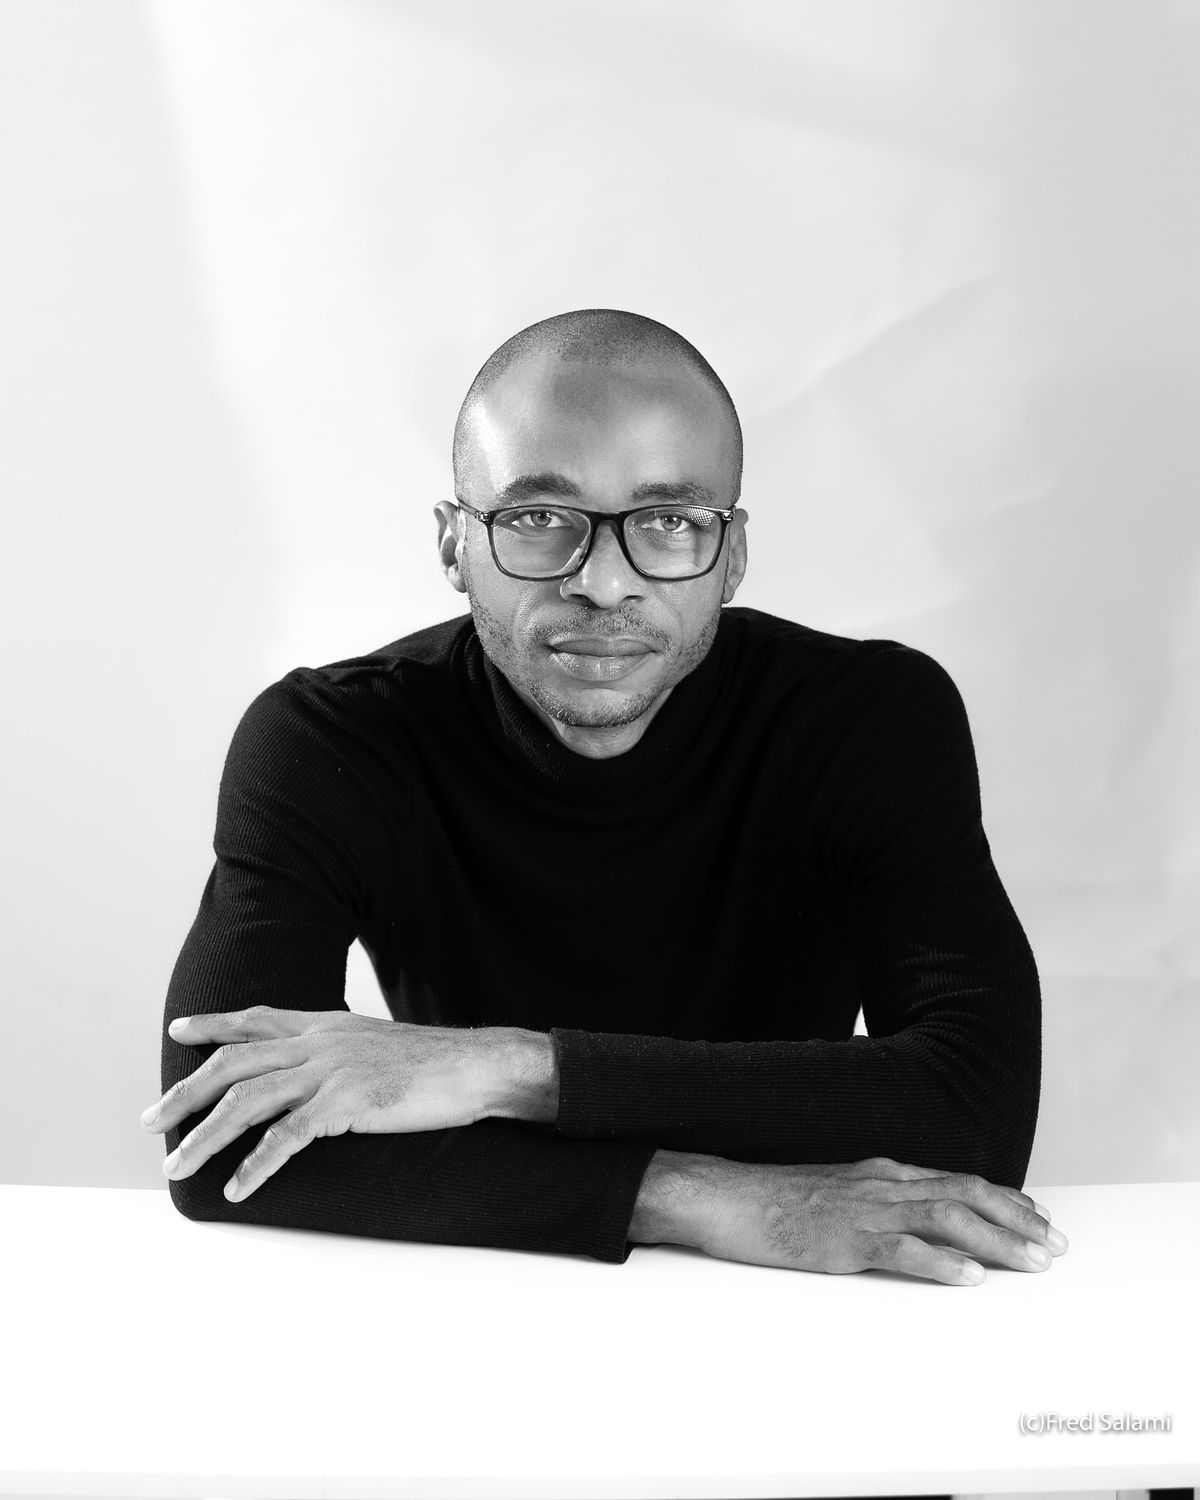
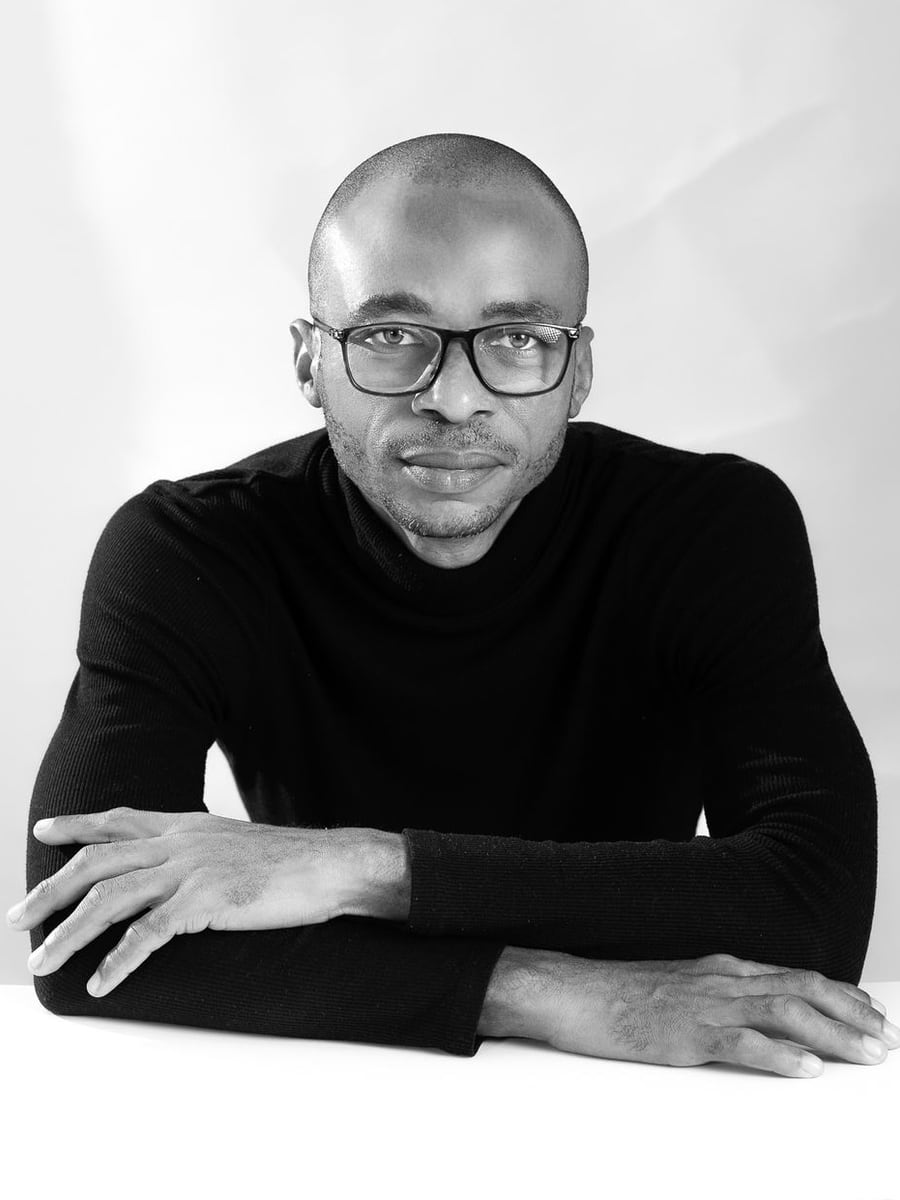
Mobile-Feinschliff: Marcus-Akkordeon, Story, Team-Grid, Natali-Portrait
Nur Mobile (<768px), Desktop unverändert.

EditorialStickyScene: Fakten-Akkordeon fließt natürlich statt fixem
overflow-Panel — unterste Karte wird nicht mehr abgeschnitten und das Modul
wächst beim Aufklappen mit (sticky Bild hält dadurch länger).

Editorial: „Die Banijay Story" auf Mobile ohne yPercent-Parallax (nur Desktop) —
der zog die Box erst voll herein, wenn das Akkordeon schon aus dem Screen war;
jetzt normaler Block, sofort vollständig sichtbar.

Founders: die drei Leader (Marcus, Knut, Michael Laegel) mobil jeweils volle
Breite gestapelt, darunter durchgehend gleich große 2-Spalten (feature = i<3).

Natali Naso (lead-6.jpg): war 1200x1500 (exakt 4/5) → ungecroppt = weite
Sitz-Komposition mit Weißraum. Jetzt eng auf Kopf/Oberkörper beschnitten
(900x1200, 3:4, Kopf ~29% wie die übrigen Portraits), Fokus 50% 12%.

Changed region(s): [[0.0, 0.0925, 1.0, 0.9558], [0.5911, 0.9867, 1.0, 1.0], [0.6533, 0.6783, 0.8089, 0.7092]]

diff --git a/src/components/cinematic/algarve/Founders.tsx b/src/components/cinematic/algarve/Founders.tsx
@@ -57,7 +57,10 @@ const FOCUS: Record<string, string> = {
   "/people/lead-3.jpg": "50% 12%",
   "/people/lead-4.jpg": "50% 22%",
   "/people/lead-5.jpg": "50% 20%",
-  "/people/lead-6.jpg": "50% 26%",
+  // Natali Naso (Wolfram 19.07.): lead-6.jpg war 1200×1500 (exakt 4/5) → im 4/5-Container
+  // ungecroppt = ganze weite Sitz-Komposition mit viel Weißraum. Jetzt eng auf Kopf/
+  // Oberkörper beschnitten (3/4, Kopf ~29 %) wie die übrigen Portraits → gleicher Top-Bias.
+  "/people/lead-6.jpg": "50% 12%",
   "/people/lead-7.jpg": "50% 26%",
   "/people/lead-8.jpg": "50% 22%",
   "/people/lead-9.jpg": "50% 22%",
@@ -341,9 +344,10 @@ export function AlgarveFounders({
             // slice(0,11) entfernt (Wolfram 17.07.): mit Elena sind es 12 Personen — der
             // harte Cap hätte die Letzte mobil verschluckt. Wie im Desktop-Grid ist die
             // Reihenfolge das Layout, LEADERSHIP wird komplett gerendert.
-            // Erste Kachel (CEO) als Feature über volle Breite; jede 5. Kachel als
-            // Querformat-Feature → die Bildcontainer werden mal größer, mal kleiner.
-            const feature = i === 0 || i === 5;
+            // Die DREI Leader (Marcus, Knut, Michael Laegel = i 0–2) jeweils über die
+            // volle Breite gestapelt (Wolfram 19.07.), danach durchgehend zweispaltig.
+            // Kein 5.-Kachel-Feature mehr → alle Kacheln darunter gleich groß (4/5).
+            const feature = i < 3;
             return (
               <div
                 // key über das Bild (leerer Name bei Elena, siehe Desktop-Grid oben).

diff --git a/src/components/cinematic/algarve/EditorialStickyScene.tsx b/src/components/cinematic/algarve/EditorialStickyScene.tsx
@@ -271,12 +271,14 @@ export function EditorialStickyScene() {
                 h-full und Kacheln mit flex-grow. Wie der Restplatz verteilt wird, ohne
                 dass er als Loch unter der Zahl landet: siehe Kachel-Kommentar. */}
             {/* Fakten-Akkordeon. Desktop: rechte Spalte. Mobile (Wolfram 19.07.): unter dem
-                sticky Bild ein SCROLLBARES Panel fester Höhe (~52vh, overflow-y) → die
-                Rubriken lassen sich durchscrollen, die Section wird nicht endlos lang.
+                sticky Bild als natürlich fließende Liste (kompakte 63px-Karten). KEINE fixe
+                Panelhöhe/overflow mehr — die hatte die unterste Karte abgeschnitten und wuchs
+                beim Aufklappen nicht mit. Jetzt wächst das Modul mit dem offenen Container,
+                das sticky Bild hält dadurch länger (höherer Container = mehr Sticky-Strecke).
                 Farbkodierung (abwechselnd Magenta/transparent, TONE) bleibt wie Desktop. */}
             <div
               ref={aside}
-              className="absolute right-0 top-0 z-[2] flex h-full flex-col max-md:!static max-md:!mt-0 max-md:!h-[52vh] max-md:!w-full max-md:!overflow-y-auto max-md:!overscroll-contain"
+              className="absolute right-0 top-0 z-[2] flex h-full flex-col max-md:!static max-md:!mt-0 max-md:!h-auto max-md:!w-full"
               style={{ width: `${ASIDE_W}px` }}
             >
               {FACTS.map((f, i) => {

diff --git a/src/components/cinematic/algarve/Editorial.tsx b/src/components/cinematic/algarve/Editorial.tsx
@@ -129,9 +129,14 @@ export function AlgarveEditorial() {
       // Unterkante (yPercent -100, von der Maske geclippt). Erst wenn die Zahlen-
       // Section steht und man weiterscrollt, zieht sie sich gescrubbt darunter hervor.
       // Die Box läuft dabei langsamer als der Scroll → Parallax.
+      // NUR DESKTOP (Wolfram 19.07.): Auf Mobile war der Parallax so getimt, dass die
+      // weiße Box erst voll erschien, wenn das (natürlich fließende) Akkordeon schon aus
+      // dem Screen war → man sah den Text nie ganz. Mobil daher KEIN yPercent-Auszug: die
+      // Story steht als normaler Block direkt im Fluss und ist beim Hinscrollen sofort
+      // vollständig sichtbar.
       const storyMask = root.current?.querySelector<HTMLElement>("[data-ed-story-mask]");
       const story = root.current?.querySelector<HTMLElement>("[data-ed-story]");
-      if (storyMask && story) {
+      if (storyMask && story && window.matchMedia("(min-width: 768px)").matches) {
         gsap.fromTo(
           story,
           { yPercent: -100 },
